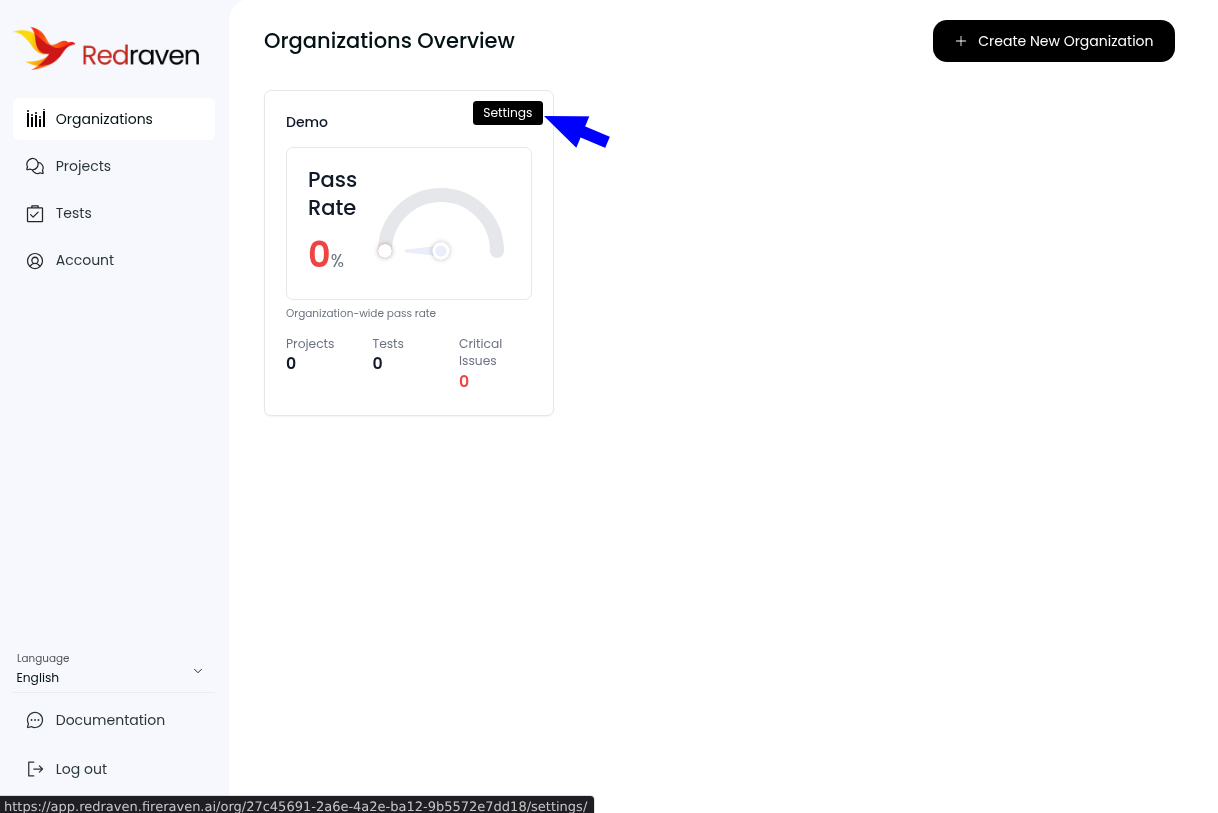
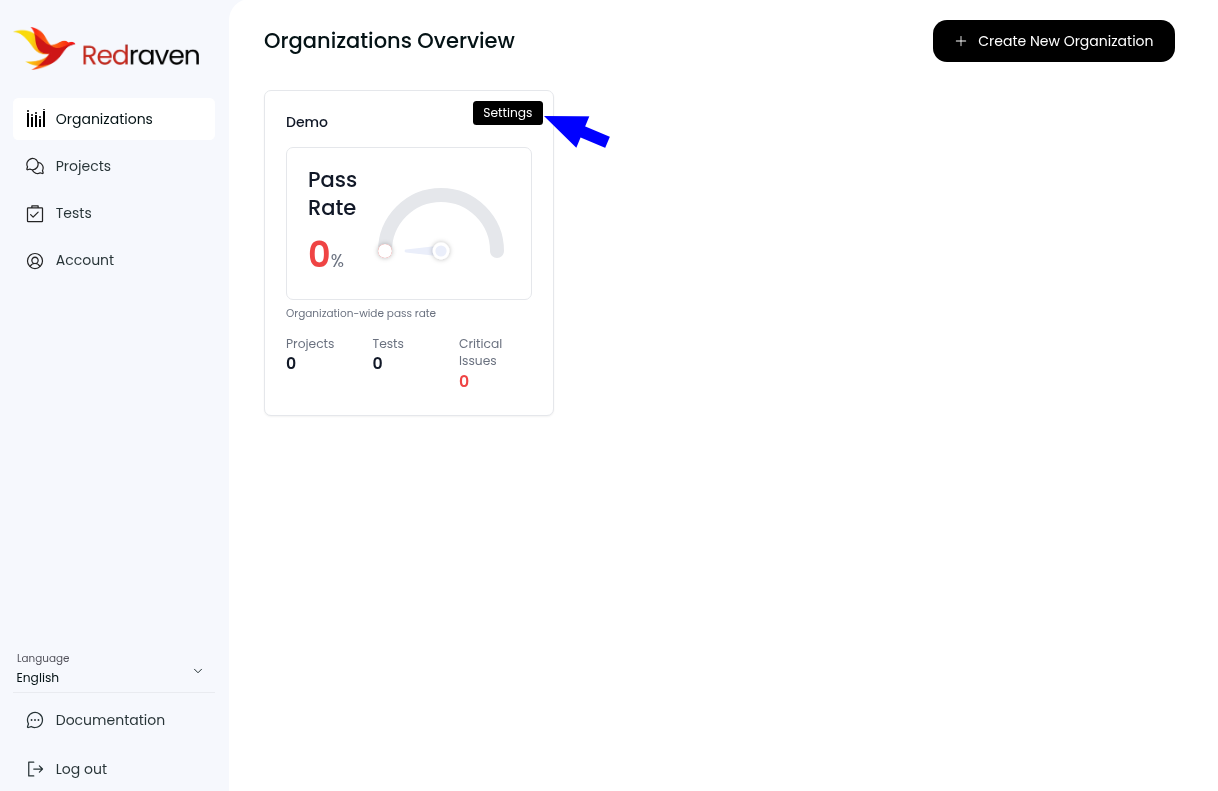
Update README and refresh setup screenshots.
Bump minimum redraven SDK to 0.1.5, hide the org landing screenshot, and replace compressed walkthrough images.

diff --git a/README.md b/README.md
@@ -33,7 +33,7 @@ Minimal end-to-end demo of [RedRaven](https://app.redraven.fireraven.ai) LLM red
    - Go to https://app.redraven.fireraven.ai/ and create an account
    - Open **Organizations** and click **+ Create New Organization**
 
-![Organizations overview — empty state](images/image-00-org-landing.png)
+<!-- ![Organizations overview — empty state](images/image-00-org-landing.png) -->
 
    - After creation, your organization appears on the overview
 
@@ -200,7 +200,7 @@ Mode `1` bundles these steps via `generate_and_run_test`.
 
 ## Dependencies
 
-- `redraven>=0.1.4` — RedRaven Python SDK
+- `redraven>=0.1.5` — RedRaven Python SDK
 - `httpx>=0.27` — HTTP client (SDK dependency)
 - `python-dotenv>=1.0` — load `.env`
 - `openai>=2.36.0` — optional (`uv sync --extra openai`) for the sample LLM
